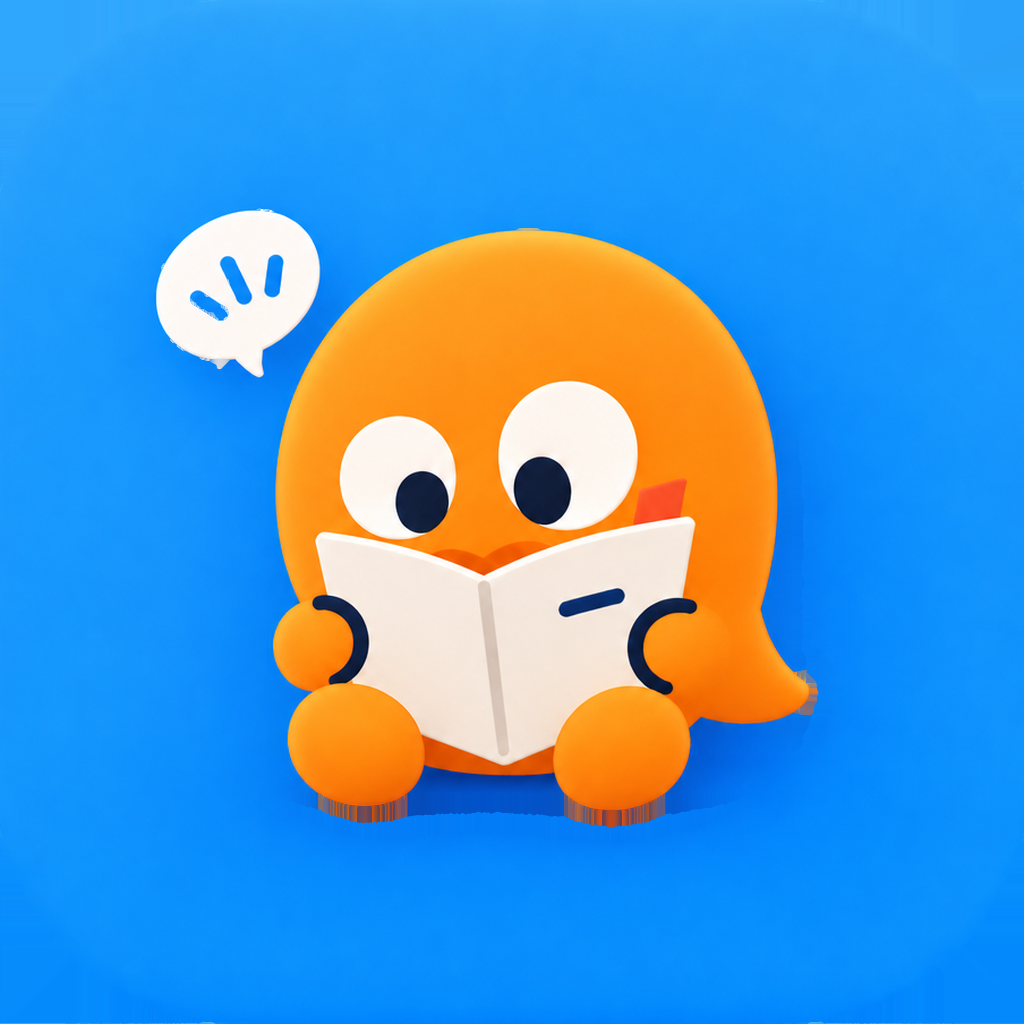
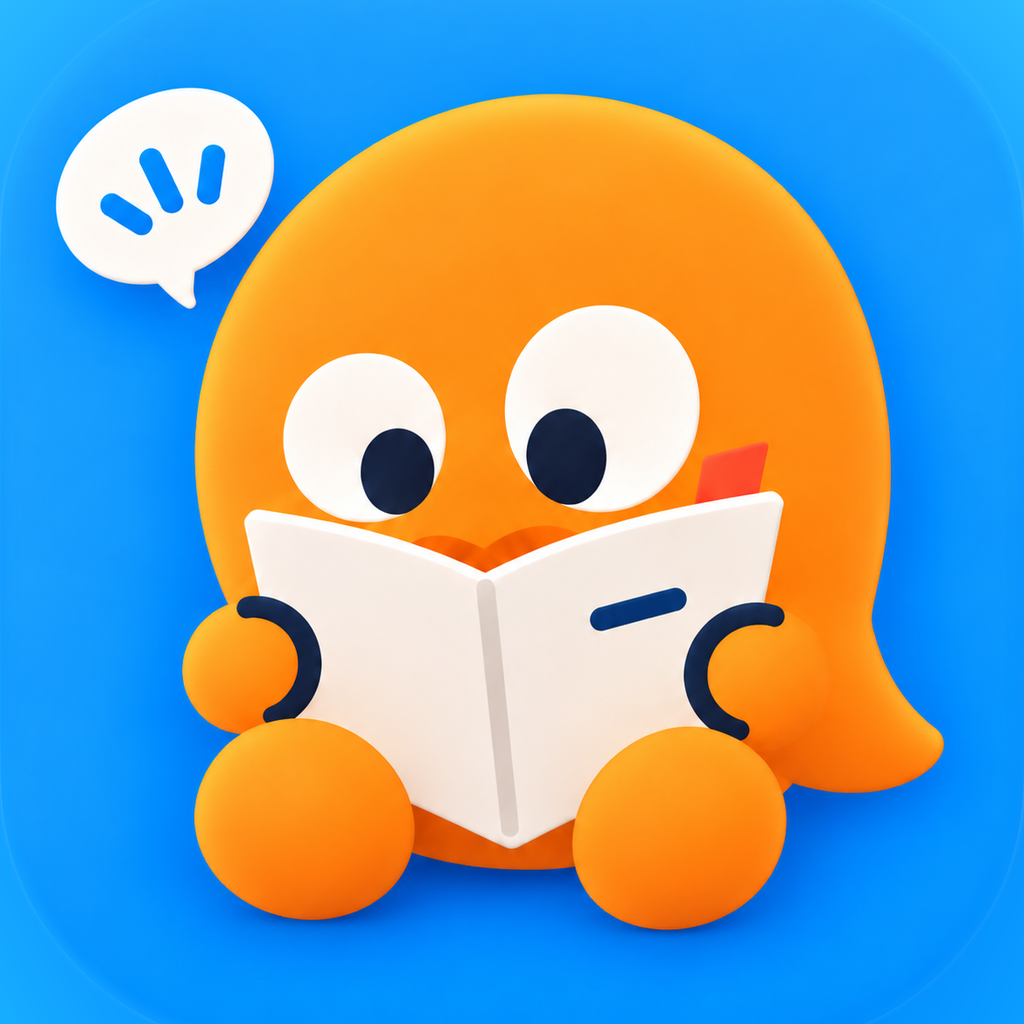
SOMA-638 iOS 뒤로 버튼의 (tabs)와 탭바 간격을 고치고 앱 아이콘을 바꾼다 (#593)
* fix(mobile): iOS 뒤로 버튼에 (tabs) 대신 탭 이름을 보이고 탭바를 바닥 쪽으로 내린다

탭 묶음 화면에 제목이 없어 iOS 뒤로 버튼에 라우트 이름 (tabs)가 그대로 보였다. 지금 탭 이름을 제목으로 준다.
iOS 는 홈 인디케이터 칸 위로 16pt 를 더 띄워 탭바가 떠 보였다. iOS 만 인디케이터 칸 안쪽으로 붙인다.

* feat(mobile): 앱 아이콘을 새 마스코트 그림으로 바꾼다

---------

diff --git a/apps/mobile/app/_layout.tsx b/apps/mobile/app/_layout.tsx
@@ -1,5 +1,5 @@
 import Feather from '@expo/vector-icons/Feather';
-import { DefaultTheme, ThemeProvider } from '@react-navigation/native';
+import { DefaultTheme, ThemeProvider, getFocusedRouteNameFromRoute } from '@react-navigation/native';
 import { useFonts } from 'expo-font';
 import {
   router,
@@ -23,6 +23,7 @@ import { syncPostHog } from '@/lib/posthog';
 import { startSignupAttributionListener } from '@/lib/signup-attribution-runtime';
 import { initCrashlytics, markScreen } from '@/lib/crashlytics';
 import { installNavigationGuard } from '@/lib/navigation-guard';
+import { tabBackTitle } from '@/lib/tab-back-title';
 import { pendingAnalysisStore } from '@/lib/analysis-storage';
 import { challengePushTarget } from '@/lib/challenge/notification-center';
 import {
@@ -350,7 +351,10 @@ function RootNavigator() {
         <Stack.Screen name="profile-edit" options={{ title: t('profileName.editTitle') }} />
         <Stack.Screen name="portfolio-edit" options={{ title: t('portfolio.title') }} />
         <Stack.Screen name="guest-transfer" options={{ title: t('guestTransfer.title') }} />
-        <Stack.Screen name="(tabs)" options={{ headerShown: false }} />
+        <Stack.Screen
+          name="(tabs)"
+          options={({ route }) => ({ headerShown: false, title: tabBackTitle(getFocusedRouteNameFromRoute(route)) })}
+        />
         <Stack.Screen
           name="delete-account"
           options={{ title: t('stack.withdraw'), headerBackTitle: t('stack.backToSettings') }}

diff --git a/apps/mobile/app/(tabs)/_layout.tsx b/apps/mobile/app/(tabs)/_layout.tsx
@@ -1,7 +1,7 @@
 import Ionicons from '@expo/vector-icons/Ionicons';
 import { Tabs, useRouter } from 'expo-router';
 import React from 'react';
-import { Pressable, StyleSheet, View } from 'react-native';
+import { Platform, Pressable, StyleSheet, View } from 'react-native';
 import { useSafeAreaInsets } from 'react-native-safe-area-context';
 
 import { HapticTab } from '@/components/haptic-tab';
@@ -55,7 +55,8 @@ export default function TabLayout() {
             position: 'absolute',
             left: 20,
             right: 20,
-            bottom: insets.bottom + 16,
+            // iOS 는 홈 인디케이터 칸(34pt)이 이미 넓어 더 띄우면 너무 떠 보인다 — 인디케이터 칸 안쪽으로 붙인다.
+            bottom: Platform.OS === 'ios' ? Math.max(insets.bottom - 4, 12) : insets.bottom + 16,
             height: 64,
             borderRadius: 32,
             backgroundColor: palette.card,

diff --git a/apps/mobile/lib/tab-back-title.ts b/apps/mobile/lib/tab-back-title.ts
@@ -1,0 +1,12 @@
+import { translate as t } from './i18n.ts';
+
+/**
+ * 탭 묶음 화면의 제목 = 지금 보고 있는 탭 이름. iOS 는 다음 화면의 뒤로 버튼에 앞 화면 제목을 쓰는데, 제목이 없으면
+ * 라우트 이름 "(tabs)"가 그대로 보였다.
+ */
+export function tabBackTitle(focusedTab: string | undefined): string {
+  if (focusedTab === 'reading') return t('tabs.reading');
+  if (focusedTab === 'challenges') return t('tabs.challenge');
+  if (focusedTab === 'profile') return t('tabs.profile');
+  return t('tabs.home');
+}
